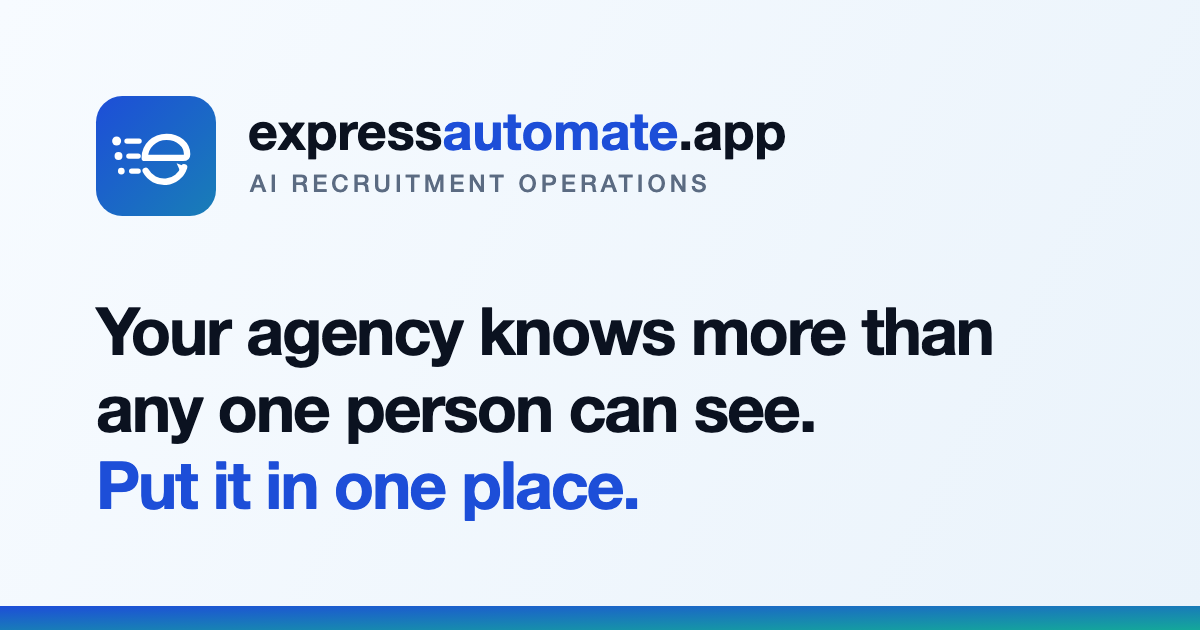
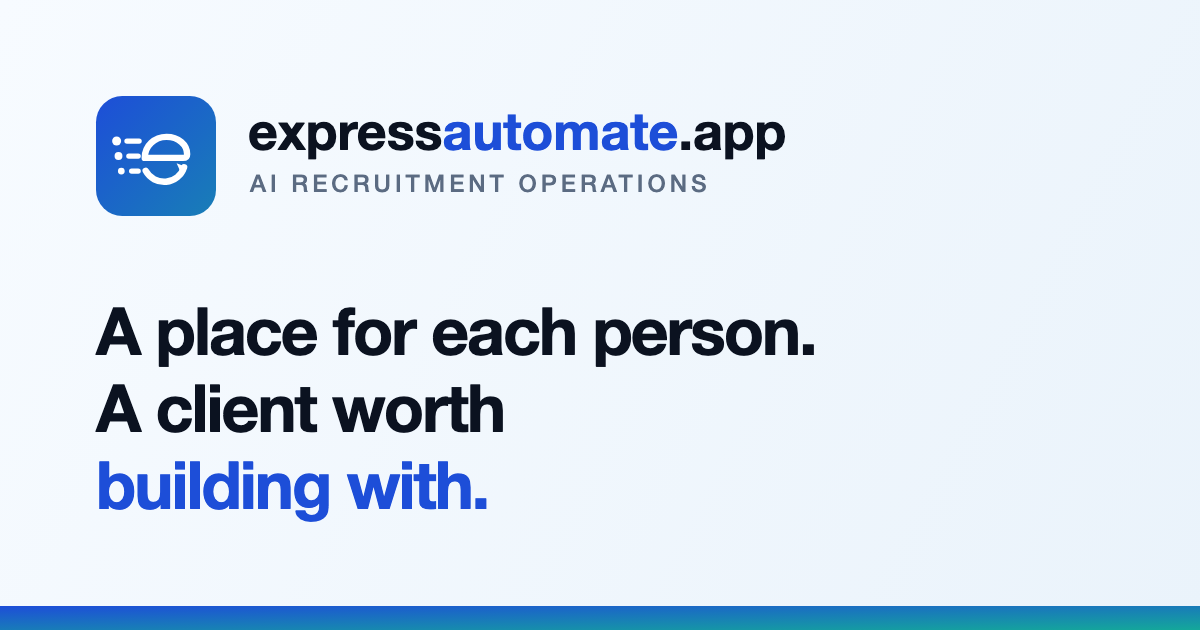
Reposition the page around the two beliefs, and let the site be found
The landing now leads with the philosophy the product is built around:
treasure every candidate, and elevate the service to a client. Those are
stated as beliefs in a new mission section, with each card naming what is
real today and what is still ahead — the same honesty the capability cards
already apply. The hero headline, the voices section and the OG card move
to the same positioning.

Add robots.txt and a static sitemap for the public site, and refine the
title and descriptions so a search result and a link preview carry the
belief instead of a feature list. The app behind sign-in is disallowed.

Changed region(s): [[0.0617, 0.4825, 0.8325, 0.8444]]

diff --git a/frontend/app/page.tsx b/frontend/app/page.tsx
@@ -12,9 +12,9 @@ import { SiteNav } from "./site-nav";
 
 /** The promises under the hero copy — what an agency owner is buying. */
 const HERO_POINTS = [
-  "Capture every role automatically",
-  "Free your recruiters from manual work",
-  "See your market with real data",
+  "One record per candidate, not a folder that hides them",
+  "The pre-work done before a client asks",
+  "Built for Singapore recruitment agencies",
 ] as const;
 
 /** The three objections an agency raises before reading any further.
@@ -200,6 +200,32 @@ const SECURITY_STRIP = [
   "Every field traceable to its email",
 ] as const;
 
+/**
+ * The two beliefs the product is built around, said as beliefs rather than as
+ * features — because the vision outruns what is built today. Each card names
+ * what is real now and what is still ahead, the same honesty the connector
+ * list applies to its planned rows. A card that stated the full vision as
+ * today's product would be the one over-claim this page exists to avoid.
+ */
+const MISSION = [
+  {
+    icon: "users",
+    title: "Treasure every candidate",
+    belief:
+      "Everyone has strengths and unique value. The work is to find a place for each person, and let them contribute — not to filter people out against a checklist.",
+    today:
+      "Today that starts with a full record per person — a CV read into a work-history timeline, skills and notes kept in one place — so a candidate is never reduced to the last role they matched. A strength read that is not tied to any one job is the work ahead.",
+  },
+  {
+    icon: "building",
+    title: "Elevate the service to clients",
+    belief:
+      "Do the pre-work — assess, validate, recommend the best candidate possible. Then work with the client to manage not just the current need, but future needs and expansion.",
+    today:
+      "Today that means every job order arrives pre-structured, candidates are scored and eligibility-checked before you forward a name, and each client keeps a history of what you have filled for them. The fuller, forward-looking client view is the work ahead.",
+  },
+] as const;
+
 export default function Home() {
   return (
     <>
@@ -211,16 +237,15 @@ export default function Home() {
             <div>
               <span className="eyebrow">For recruitment agencies of 3–50</span>
               <h1 style={{ marginTop: 14 }}>
-                From scattered data
+                <span className="gradient-text">A place for each person.</span>
                 <br />
-                <span className="gradient-text">to clear decisions,</span>
-                <br />
-                every day.
+                A client worth building with.
               </h1>
               <p className="lede" style={{ marginTop: 20 }}>
-                What clients pay, which skills keep recurring, which roles never fill — the
-                recruitment work your team already does becomes the evidence they act on, instead
-                of scattering across mailboxes, spreadsheets and people&rsquo;s heads.
+                We believe every candidate has strengths worth finding — not a checkbox to filter
+                against — and that a client deserves the pre-work to assess, validate and recommend
+                the right person, not just a quick fill. expressautomate starts that work today,
+                from the recruitment mail your team already handles.
               </p>
 
               <ul className="ticks">
@@ -254,6 +279,36 @@ export default function Home() {
                     {t.label}
                   </span>
                 </span>
+              ))}
+            </div>
+          </div>
+        </section>
+
+        <section id="why" className="alt">
+          <div className="wrap">
+            <div className="head-center">
+              <span className="eyebrow">Why we are building this</span>
+              <h2 style={{ marginTop: 12 }}>Two beliefs, in plain words</h2>
+              <p className="body" style={{ marginTop: 12 }}>
+                The product is early, and these are the beliefs shaping it. Each one names what
+                exists today, and what is still ahead.
+              </p>
+            </div>
+
+            <div className="grid-2" style={{ marginTop: 36 }}>
+              {MISSION.map((m) => (
+                <div className="card" key={m.title}>
+                  <div className="icon">
+                    <Icon name={m.icon} />
+                  </div>
+                  <h3>{m.title}</h3>
+                  <p className="body" style={{ marginTop: 10, fontSize: "0.9375rem" }}>
+                    {m.belief}
+                  </p>
+                  <p className="body" style={{ marginTop: 12, fontSize: "0.875rem", color: "var(--ink-500)" }}>
+                    {m.today}
+                  </p>
+                </div>
               ))}
             </div>
           </div>
@@ -407,8 +462,9 @@ export default function Home() {
             <div>
               <h2>What using it should feel like</h2>
               <p className="body" style={{ marginTop: 12 }}>
-                We are looking to work with a small number of Singapore recruitment agencies and build
-                the product alongside them.
+                We are building for agencies who want to find a place for each person, not just fill
+                a seat — and to earn a client&rsquo;s longer trust, not just this month&rsquo;s brief.
+                We are looking to work with a small number of Singapore agencies and build it with them.
               </p>
               {/* Said once, plainly, rather than hidden in small print. */}
               <p className="illustrative" style={{ marginTop: 16 }}>

diff --git a/frontend/app/layout.tsx b/frontend/app/layout.tsx
@@ -2,13 +2,13 @@ import type { Metadata } from "next";
 import "./globals.css";
 import "./app.css";
 
-const TITLE = "expressautomate.app — AI recruitment operations";
+const TITLE = "expressautomate.app — find a place for each person";
 
 /**
  * Bump when any raster in public/ that this page links is redrawn — the three
  * icons or og.png. See the note on `icons` below for the measurement behind it.
  */
-const ASSET_VERSION = "3";
+const ASSET_VERSION = "4";
 
 const OG_IMAGE = `/og.png?v=${ASSET_VERSION}`;
 
@@ -16,7 +16,7 @@ const OG_IMAGE = `/og.png?v=${ASSET_VERSION}`;
    two lines and the description at two more, so this says what the product
    does and stops — no feature list that will be cut mid-word. */
 const PREVIEW_DESCRIPTION =
-  "AI recruitment operations — consolidate your agency's scattered recruitment data into one structured, searchable picture, so your team acts on evidence instead of retyping.";
+  "Recruitment operations built on a simple belief — every candidate has strengths worth finding, and a client deserves the pre-work to recommend the right one.";
 
 /**
  * metadataBase makes every relative URL below absolute in the emitted HTML,
@@ -31,7 +31,7 @@ export const metadata: Metadata = {
   metadataBase: new URL("https://expressautomate.app"),
   title: TITLE,
   description:
-    "AI recruitment operations for small agencies. Consolidate scattered recruitment data into one structured, searchable record — job orders, candidates, clients and the evidence behind each. Starts with read-only Outlook access.",
+    "AI recruitment operations for Singapore agencies. One record per candidate, the pre-work done before a client asks, and the evidence behind every field. Starts with read-only Outlook access.",
   openGraph: {
     siteName: "expressautomate.app",
     title: TITLE,
@@ -44,7 +44,7 @@ export const metadata: Metadata = {
         url: OG_IMAGE,
         width: 1200,
         height: 630,
-        alt: "expressautomate.app — your agency knows more than any one person can see. Put it in one place.",
+        alt: "expressautomate.app — a place for each person, and a client worth building with.",
       },
     ],
   },

diff --git a/frontend/app/globals.css b/frontend/app/globals.css
@@ -394,6 +394,7 @@ section { padding: 60px 0; }
 .hero { padding: 64px 0 48px; background: linear-gradient(180deg, #f7fbff 0%, #ffffff 100%); }
 .alt { background: var(--surface-alt); border-block: 1px solid var(--line); }
 
+.grid-2 { display: grid; grid-template-columns: repeat(2, 1fr); gap: 28px; }
 .grid-3 { display: grid; grid-template-columns: repeat(3, 1fr); gap: 28px; }
 .grid-4 { display: grid; grid-template-columns: repeat(4, 1fr); gap: 22px; }
 .split { display: grid; grid-template-columns: 1.05fr 0.95fr; gap: 56px; align-items: center; }
@@ -787,7 +788,7 @@ footer { border-top: 1px solid var(--line); padding: 48px 0 40px; color: var(--i
 @media (max-width: 860px) {
   section { padding: 40px 0; }
   .hero { padding: 32px 0 32px; }
-  .grid-3, .grid-4, .split, .hero-grid { grid-template-columns: 1fr; gap: 24px; }
+  .grid-2, .grid-3, .grid-4, .split, .hero-grid { grid-template-columns: 1fr; gap: 24px; }
   /* The name used to be hidden here, because name + "Switch account" +
      "Sign out" was three things too many for a phone nav and pushed the auth
      corner off the row. All three now live inside the account menu, so the
